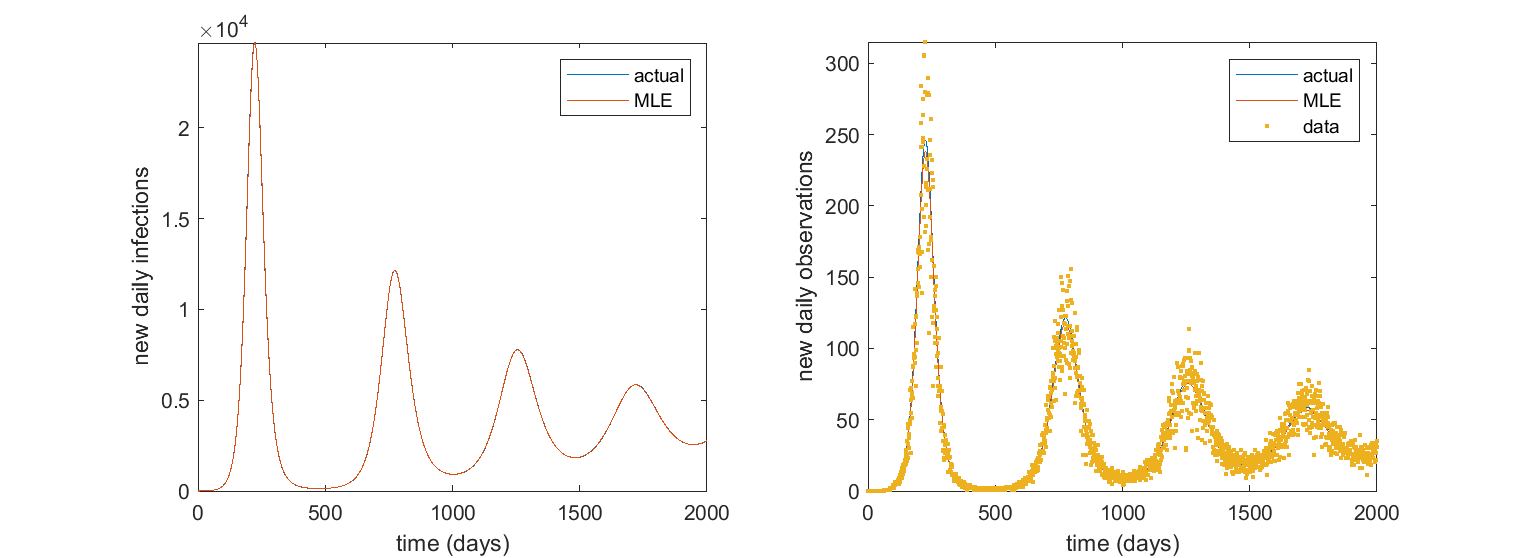
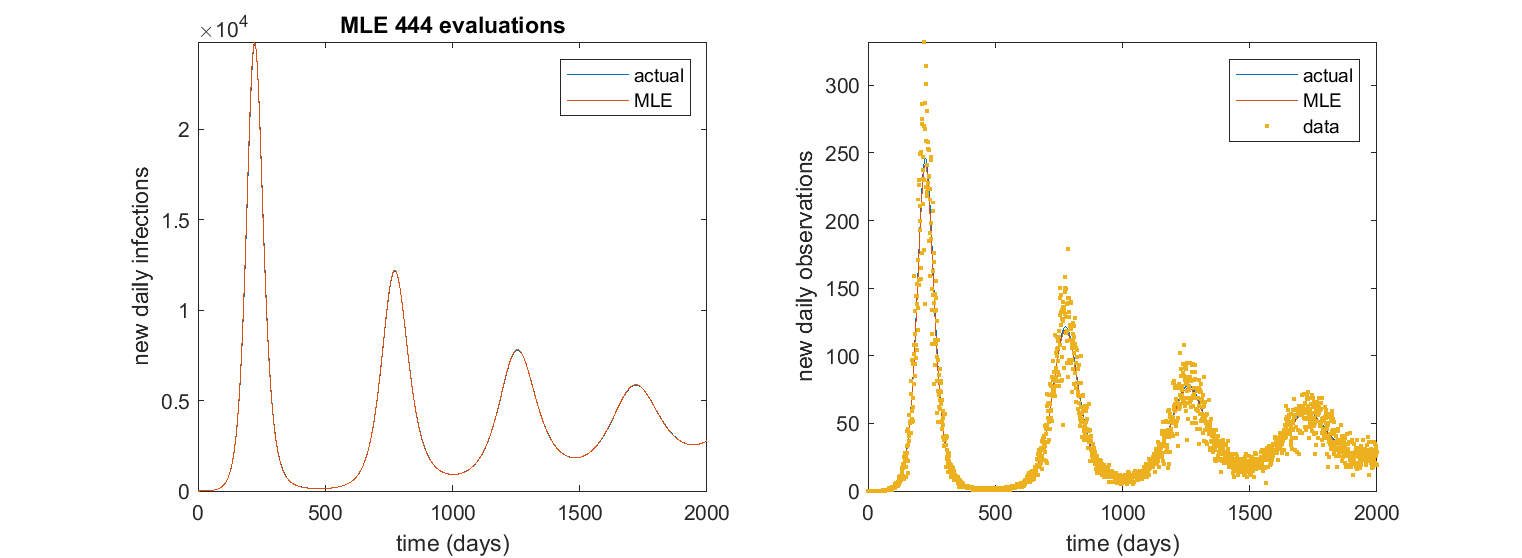
Added improved optimisation method
"Improved" method in doProfilingImproved.m uses fact that pObs can be optimised within the objective function.

Also: profiling now starts at the MLE and works outward for better convergence; calls to the objective function are counted

diff --git a/doProfilingImproved.m b/doProfilingImproved.m
@@ -7,7 +7,9 @@ addpath('functions');
 % Folder for saving plots
 savFolder = "figures/";
 
-options = optimoptions('fmincon', 'Display', 'off');
+optTol = 1e-10;          % default is 1e-6
+
+options = optimoptions('fmincon', 'Display', 'off');%, 'OptimalityTolerance', optTol);
 
 
 
@@ -15,7 +17,7 @@ options = optimoptions('fmincon', 'Display', 'off');
 par = getPar();
 sol = solveModel(par);
 obs = genObs(sol, par);
-ThetaTrue = [par.R0; par.tR; par.pObs; par.obsSD];
+ThetaTrue = [par.R0; par.tR; par.obsSD];
 
 
 
@@ -24,26 +26,25 @@ ThetaTrue = [par.R0; par.tR; par.pObs; par.obsSD];
 tic
 
 % Initial guess for fitted parameters [R0, tR, pObs, obsSD]
-parLbl = ["R0", "tR", "pObs", "obsSD"];
-Theta0 = [1.5; 400; 0.1; 0.4];
+parLbl = ["R0", "tR", "obsSD"];
+Theta0 = [1.5; 400; 0.4];
 
 % Define lower and upper bounds on fitted parameters
-lb = [0; 0; 0; 0];
-ub = [20; 2000; 1; 2];
+lb = [0; 0; 0];
+ub = [20; 2000; 2];
 
 % Deine objective function for optimisation
-objFn = @(Theta)(-calcLogLik(obs, Theta, par));
+objFn = @(Theta)(-calcLogLikImproved(obs, Theta, par));
 
 % Local search starting from Theta0...
-[ThetaMLE, ~, exitFlag, output] = fmincon( objFn, Theta0, [], [], [], [], lb, ub, [], options);
+[ThetaMLE, ~, exitFlag, output] = fmincon( objFn, Theta0, [], [], [], [], lb, ub, [], options );
 countMLE = output.funcCount;
 
-% ...or global search
-% problem = createOptimProblem('fmincon','x0', Theta0, 'objective', objFn, 'lb', lb, 'ub', ub);
-% ThetaMLE = run(GlobalSearch, problem);
+% Post-calculate optimal pObs
+[~, pObsMLE] = calcLogLikImproved(obs, ThetaMLE, par);
 
 % Solve model at MLE estimate and plot results
-parMLE = getTrialPar(ThetaMLE, par);
+parMLE = getTrialPar([ThetaMLE(1:2); pObsMLE; ThetaMLE(3)], par);
 solMLE = solveModel(parMLE);
 
 h = figure(1);
@@ -61,9 +62,8 @@ legend('actual', 'MLE', 'data')
 xlabel('time (days)')
 ylabel('new daily observations')
 ylim([0 inf])
-saveas(gcf, savFolder+"mle", 'png');
+saveas(gcf, savFolder+"mleImproved", 'png');
 drawnow
-
 
 
 
@@ -75,8 +75,8 @@ drawnow
 nMesh = 21;     % number of points in parameter mesh
 
 % Profile intervals for each parameter
-ThetaLower = [1.2; 250; 0.005; 0.15];
-ThetaUpper = [1.4; 350; 0.015; 0.4];
+ThetaLower = [1.2; 250; 0.15];
+ThetaUpper = [1.4; 350; 0.4];
 
 nPars = length(Theta0);
 countProfile = zeros(nPars, 1);
@@ -89,7 +89,7 @@ parfor iPar = 1:nPars
     iStart = find(ThetaMesh >= ThetaMLE(iPar), 1, 'first');        % start profiling from the MLE rightwards
     ThetaOther0 = ThetaMLE(jOther);                                % use MLE as initial guess for first run
     for iMesh = iStart:nMesh
-        objFn = @(ThetaOther)(-calcLogLik(obs, makeTheta(ThetaMesh(iMesh), ThetaOther, iPar), par));
+        objFn = @(ThetaOther)(-calcLogLikImproved(obs, makeTheta(ThetaMesh(iMesh), ThetaOther, iPar), par));
         [x, f, exitFlag, output] = fmincon(objFn, ThetaOther0, [], [], [], [], lb(jOther), ub(jOther), [], options);
         ll(iMesh) = -f;
         ThetaOther0 = x;                                          % use profile solution as the initial guess for the next run
@@ -99,7 +99,7 @@ parfor iPar = 1:nPars
     % now profile from the MLE leftwards
     ThetaOther0 = ThetaMLE(jOther);                                % use MLE as initial guess for first run
     for iMesh = iStart-1:-1:1
-        objFn = @(ThetaOther)(-calcLogLik(obs, makeTheta(ThetaMesh(iMesh), ThetaOther, iPar), par));
+        objFn = @(ThetaOther)(-calcLogLikImproved(obs, makeTheta(ThetaMesh(iMesh), ThetaOther, iPar), par));
         [x, f, exitFlag, output] = fmincon(objFn, ThetaOther0, [], [], [], [], lb(jOther), ub(jOther), [], options);
         ll(iMesh) = -f;
         ThetaOther0 = x;                                          % use profile solution as the initial guess for the next run
@@ -126,6 +126,6 @@ for iPar = 1:nPars
     drawnow
 end
 
-saveas(gcf, savFolder+"profiles", 'png');
+saveas(gcf, savFolder+"profilesImproved", 'png');
 
 

diff --git a/functions/calcLogLik.m b/functions/calcLogLik.m
@@ -4,18 +4,19 @@ function LL = calcLogLik(obs, Theta, par)
 % par is the structrue containing all model parameters
 % Theta is the vector of selected parameters to be fitted 
 
+small = 1e-10;
+
+nPoints = length(obs);
+
 % Construct a modified parameter structure by overwriting the default settings with the specified values of Theta
 par = getTrialPar(Theta, par);
 
 % Solve forward model
 sol = solveModel(par); 
-Yt = 1/par.tObs * sol.C1;
-small = 1e-10;
-%minY = min([small; Yt(Yt > 0)]);
-%Ytp = max(minY, Yt);      % To avoid numerical problems, replace non-positive values with the smallest positive value in the solution
-Ytp = max(small, Yt);
 
-nPoints = length(obs);
+% Expected observed values
+Yt = 1/par.tObs * sol.C1;       
+Ytp = max(small, Yt);    % To avoid numerical problems, replace non-positive values with a small positive number
 
 % Log likelihood (PDF of a normal with mean Yt and variance obsSD^2*Yt^2
 LL = -nPoints*log(par.obsSD) - sum( log(Ytp) + 0.5*(obs-Ytp).^2./(par.obsSD^2*Ytp.^2)  );

diff --git a/functions/calcLogLikImproved.m b/functions/calcLogLikImproved.m
@@ -1,0 +1,27 @@
+function [LL, pObsOpt] = calcLogLikImproved(obs, Theta, par)
+
+% Calculate log likelihood of observed data obs under parameters Theta
+% par is the structrue containing all model parameters
+% Theta is the vector of selected parameters to be fitted 
+
+options = optimoptions('fmincon', 'Display', 'off');
+
+nPoints = length(obs);
+
+% Construct a modified parameter structure by overwriting the default settings with the specified values of Theta
+par = getTrialParImproved(Theta, par);
+par.pObs = 1;
+
+% Solve forward model
+sol = solveModel(par); 
+
+% Expected observed values under pObs=1
+Yt = 1/par.tObs * sol.C1;       
+
+% Find optimal pObs and associated log likelihood, starting from initial guess pObs = 0.5
+objFn = @(pObs)(-nestedObjFn(pObs, Yt, obs, par));
+[pObsOpt, f, exitFlag, output] = fmincon(objFn, 0.5, [], [], [], [], 0, 1, [], options);
+assert(exitFlag > 0)
+
+LL = -f;
+

diff --git a/functions/nestedObjFn.m b/functions/nestedObjFn.m
@@ -1,0 +1,16 @@
+function LL = nestedObjFn(pObs, Yt, obs, par)
+
+% Nested objective function for optimisation of pObs, assuming all other parameters are fixed as in the parameter structure par 
+% Yt is the expected observations when pObs = 1
+% obs contains the actual data
+
+small = 1e-10;
+
+nPoints = length(obs);
+    
+Ytscaled = pObs*Yt;           % Scale unnormalised Yt (which assumed pObs=1) by pObs 
+Ytp = max(small, Ytscaled);   % To avoid numerical problems, replace non-positive values with a small positive number
+
+% Log likelihood (PDF of a normal with mean Yt and variance obsSD^2*Yt^2
+LL = -nPoints*log(par.obsSD) - sum( log(Ytp) + 0.5*(obs-Ytp).^2./(par.obsSD^2*Ytp.^2)  );
+

diff --git a/functions/getTrialParImproved.m b/functions/getTrialParImproved.m
@@ -1,0 +1,8 @@
+function trialPar = getTrialParImproved(Theta, par)
+
+% Construct a modified (trial) parameter structure trialPar by overwriting the default settings in par with the specified values of Theta
+
+trialPar = par;
+trialPar.R0  = Theta(1);
+trialPar.tR = Theta(2);
+trialPar.obsSD = Theta(3);
